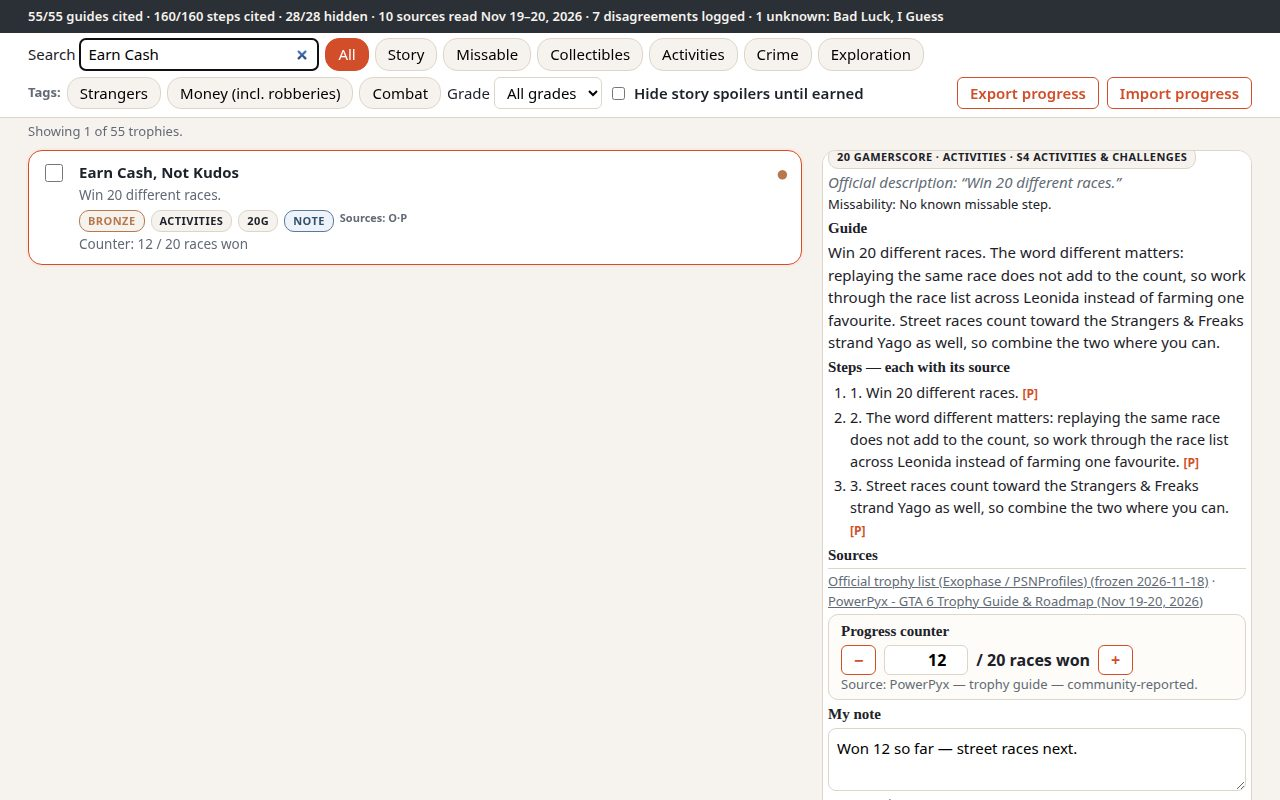
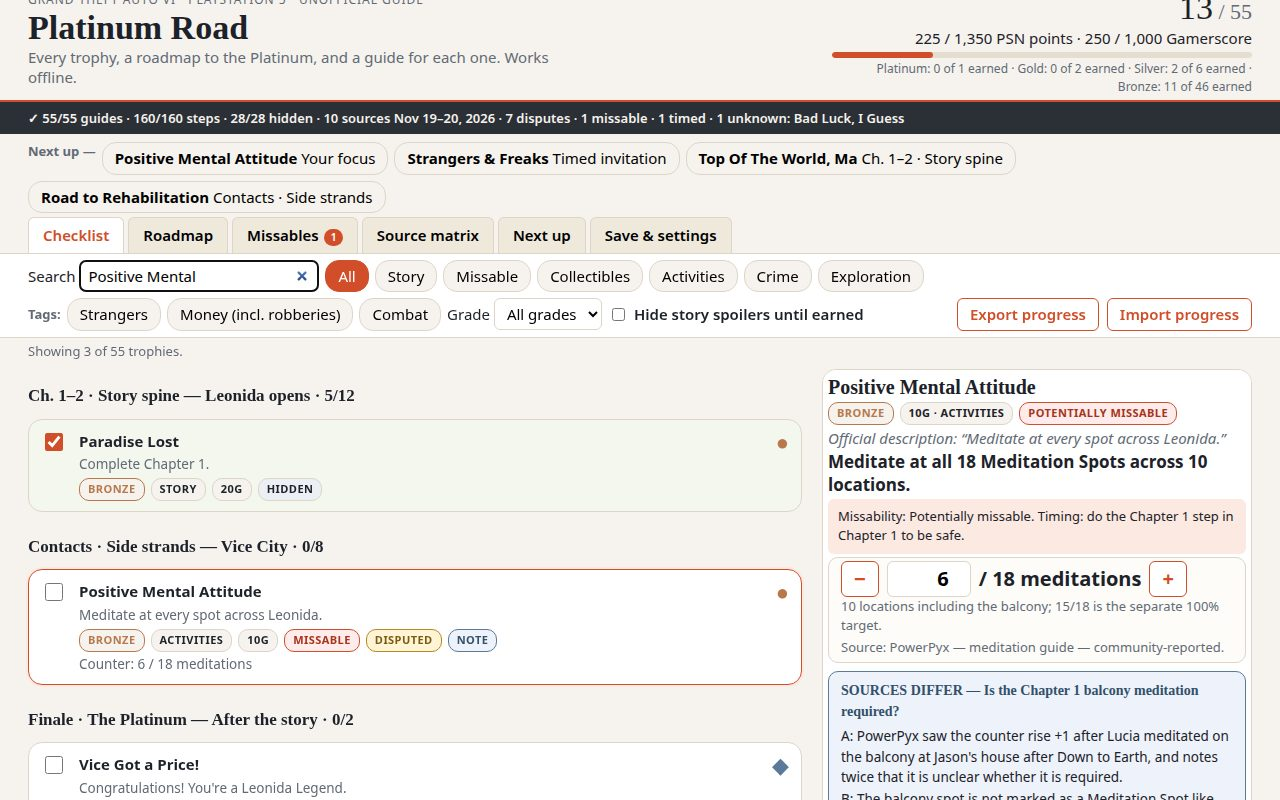
Platinum Road v4: light cover, one-line audit, chapter groups, Next Up strip
Presentation redesign on v3 (scout of top entries 2026-11-20): judged
shot 1 is light with Positive Mental Attitude (id 28) filled, bold lead,
big 6/18 stepper, pink missable callout and blue SOURCES DIFFER box;
audit collapsed to one line; checklist grouped by named chapters with
place subtitles; Next Up is a short horizontal strip; 4 shots in the
leaders' order (tracker, roadmap, missables, matrix). Content, citations
(160/160 steps), disputes, source matrix, export/import, notes and
counters unchanged. Dossier Totals 12,172/12,500 bytes gzip-9.

diff --git a/app/app.js b/app/app.js
@@ -35,7 +35,7 @@ if (!['checklist', 'roadmap', 'missables', 'matrix', 'nextup', 'save'].includes(
 function kindLabel(k) { return { story: 'Story', collectibles: 'Collectibles', activities: 'Activities', crime: 'Crime', exploration: 'Exploration', meta: 'Meta' }[k] || k; }
 function stageName(n) { const s = stages7.find((x) => x.n === n); return s ? s.name : 'Stage ' + n; }
 function verificationLabel(v) { return { official: 'Official list', community: 'Community-verified', unconfirmed: 'Unconfirmed — not yet checked in the game' }[v] || v; }
-function missText(t) { return 'Missability: ' + { auto: 'Automatic during story. Timing: earned during required story progression.', none: 'No known missable step.', potentially: 'Potentially missable. Timing: do the Chapter 1 step in Chapter 1 to be safe; whether skipping blocks it is not established.', unknown: 'Not established. Timing and method: not established.' }[t.miss]; }
+function missText(t) { return 'Missability: ' + { auto: 'Automatic during story. Timing: earned during required story progression.', none: 'No known missable step.', potentially: 'Potentially missable. Timing: do the Chapter 1 step in Chapter 1 to be safe.', unknown: 'Not established. Timing and method: not established.' }[t.miss]; }
 function isHidden(t) { return spoilersOn && t.hidden && !earned.has(t.name); }
 function srcName(code) { const s = srcs.find((x) => x.c === code); return s ? s.n + ' (' + s.d + ')' : code; }
 function saveProgress() {
@@ -65,18 +65,19 @@ function renderAudit() {
   const hidden = trophies.filter((t) => t.hidden).length;
   const disp = trophies.filter((t) => t.dispute).length;
   const unk = trophies.filter((t) => t.verification === 'unconfirmed');
-  $('audit').textContent = `${guides}/55 guides cited · ${cited}/${steps} steps cited · ${hidden}/28 hidden · ${srcs.length} sources read ${N1920} · ${disp} disagreements logged · ${unk.length} unknown: ${unk.map((t) => t.name).join(', ') || 'none'}`;
+  const miss = trophies.filter((t) => t.missable).length, timed = trophies.filter((t) => t.timed).length;
+  $('audit').textContent = `✓ ${guides}/55 guides · ${cited}/${steps} steps · ${hidden}/28 hidden · ${srcs.length} sources ${N1920} · ${disp} disputes · ${miss} missable · ${timed} timed · ${unk.length} unknown: ${unk.map((t) => t.name).join(', ') || 'none'}`;
 }
-function renderStages() {
+function renderNextStrip() {
   const host = $('stageStrip');
   host.replaceChildren();
-  for (const s of stages7) {
-    const ts = trophies.filter((t) => t.s7 === s.n), got = ts.filter((t) => earned.has(t.name)).length;
-    const b = el('button', 'stage-chip');
-    b.type = 'button';
-    b.append(el('b', null, `${s.name} `), document.createTextNode(`${got}/${ts.length}`));
-    b.addEventListener('click', () => setView('roadmap'));
-    host.append(b);
+  host.append(el('span', 'tag-label', 'Next up —'));
+  for (const [t, why] of nextItems().slice(0, 4)) {
+    const c = el('button', 'chip');
+    c.type = 'button';
+    c.append(el('b', null, t.name + ' '), document.createTextNode(why.split(' — ')[0]));
+    c.addEventListener('click', () => { selectedId = t.id; renderAll(); });
+    host.append(c);
   }
 }
 function countOf(t) { return Math.max(0, Math.min(t.counter ? t.counter.target : 0, Number(counts[t.id]) || 0)); }
@@ -101,7 +102,12 @@ function renderChecklist() {
   noteEl.textContent = tagNote() || (shown.length === trophies.length
     ? 'Showing all 55 trophies. Click a trophy to open its guide; tick the box when you earn it.'
     : `Showing ${shown.length} of 55 trophies.`);
-  for (const t of shown) {
+  for (const s of stages7) {
+    const ts = shown.filter((t) => t.s7 === s.n);
+    if (!ts.length) continue;
+    const got = trophies.filter((t) => t.s7 === s.n && earned.has(t.name)).length, tot = trophies.filter((t) => t.s7 === s.n).length;
+    listEl.append(el('h3', 'chapter-head', `${s.name} — ${s.sub} · ${got}/${tot}`));
+    for (const t of ts) {
     const row = el('button', 'trophy-row' + (earned.has(t.name) ? ' earned' : '') + (t.id === selectedId ? ' selected' : ''));
     row.type = 'button';
     const box = document.createElement('input');
@@ -122,7 +128,6 @@ function renderChecklist() {
     if (t.verification === 'unconfirmed') meta.append(badge('Not yet checked', 'unconfirmed'));
     if (t.dispute) meta.append(badge('Disputed', 'unconfirmed'));
     if (notes[t.id]) meta.append(badge('Note', 'note-badge'));
-    if (!hidden && (t.sc || []).length) meta.append(el('span', 'srcrail', 'Sources: ' + t.sc.join('·')));
     body.append(name, desc, meta);
     if (!hidden && t.counter) body.append(el('span', 'trophy-desc', `Counter: ${countOf(t).toLocaleString()} / ${t.counter.target.toLocaleString()} ${t.counter.unit}`));
     const dot = el('span', `grade-dot grade-${t.grade}`, { platinum: '◆', gold: '●', silver: '●', bronze: '●' }[t.grade]);
@@ -130,6 +135,7 @@ function renderChecklist() {
     row.append(box, body, dot);
     row.addEventListener('click', () => { selectedId = t.id; renderAll(); });
     listEl.append(row);
+    }
   }
   if (!shown.length) listEl.append(el('p', null, 'No trophies match these filters.'));
 }
@@ -147,46 +153,15 @@ function renderGuidePane() {
   }
   paneEl.append(el('h2', null, t.name));
   const badges = el('p', 'trophy-meta');
-  badges.append(gb(t), badge(`${t.gamerscore} Gamerscore · ${kindLabel(t.kind)} · ${stageName(t.s7)}`));
+  badges.append(gb(t), badge(`${t.gamerscore}G · ${kindLabel(t.kind)}`));
   if (t.hidden) badges.append(badge('Hidden on PlayStation', 'hidden-badge'));
   if (t.missable) badges.append(badge('Potentially missable', 'missable'));
   paneEl.append(badges);
   paneEl.append(el('p', 'official-desc', `Official description: “${t.description}”`));
-  paneEl.append(el('p', 'miss-line', missText(t)));
-  paneEl.append(el('h3', null, 'Guide'));
-  paneEl.append(el('p', 'guide-text', t.guide));
-  paneEl.append(el('h3', null, 'Steps — each with its source'));
-  if ((t.steps || []).length) {
-    const ol = el('ol', 'steps');
-    for (const [i, s] of t.steps.entries()) {
-      const li = el('li', null, `${i + 1}. ${s.t} `);
-      li.append(el('span', 'step-src', `[${s.s}]`));
-      ol.append(li);
-    }
-    paneEl.append(ol);
-  } else {
-    paneEl.append(el('p', 'nosteps', 'No steps yet — the method is not yet established. See the dispute below; this guide lists no method until a firsthand report confirms one.'));
-  }
-  if (t.dispute) {
-    const d = el('div', 'dispute');
-    d.append(el('h3', null, `SOURCES DIFFER — ${t.dispute.q}`));
-    d.append(el('p', null, `A: ${t.dispute.a}`));
-    d.append(el('p', null, `B: ${t.dispute.b}`));
-    d.append(el('p', null, `Guide's call: ${t.dispute.call}`));
-    paneEl.append(d);
-  }
-  paneEl.append(el('h3', null, 'Sources'));
-  const src = el('p', 'sources');
-  (t.sc || []).forEach((code, i) => {
-    const link = srcLink(code);
-    if (i) src.append(document.createTextNode(' · '));
-    if (link.href) { const a = el('a', null, link.text); a.href = link.href; a.target = '_blank'; a.rel = 'noopener'; src.append(a); }
-    else src.append(document.createTextNode(link.text));
-  });
-  paneEl.append(src);
+  paneEl.append(el('p', 'guide-lead', t.guide.split('. ')[0] + '.'));
+  paneEl.append(el('p', t.missable ? 'verification-note' : 'miss-line', missText(t)));
   if (t.counter) {
     const box = el('div', 'counter-box');
-    box.append(el('h3', null, 'Progress counter'));
     const line = el('div', 'counter-line');
     const minus = el('button', null, '−'); minus.type = 'button'; minus.setAttribute('aria-label', 'Decrease counter');
     const input = document.createElement('input');
@@ -211,6 +186,37 @@ function renderGuidePane() {
     box.append(el('p', 'counter-src', `Source: ${t.condition_src} — community-reported. One attempt only, not a lifetime total.`));
     paneEl.append(box);
   }
+  if (t.dispute) {
+    const d = el('div', 'dispute');
+    d.append(el('h3', null, `SOURCES DIFFER — ${t.dispute.q}`));
+    d.append(el('p', null, `A: ${t.dispute.a}`));
+    d.append(el('p', null, `B: ${t.dispute.b}`));
+    d.append(el('p', null, `Guide's call: ${t.dispute.call}`));
+    paneEl.append(d);
+  }
+  paneEl.append(el('h3', null, 'Guide'));
+  paneEl.append(el('p', 'guide-text', t.guide));
+  paneEl.append(el('h3', null, 'Steps — each with its source'));
+  if ((t.steps || []).length) {
+    const ol = el('ol', 'steps');
+    for (const [i, s] of t.steps.entries()) {
+      const li = el('li', null, `${i + 1}. ${s.t} `);
+      li.append(el('span', 'step-src', `[${s.s}]`));
+      ol.append(li);
+    }
+    paneEl.append(ol);
+  } else {
+    paneEl.append(el('p', 'nosteps', 'No steps yet — the method is not yet established. See the dispute below; this guide lists no method until a firsthand report confirms one.'));
+  }
+  paneEl.append(el('h3', null, 'Sources'));
+  const src = el('p', 'sources');
+  (t.sc || []).forEach((code, i) => {
+    const link = srcLink(code);
+    if (i) src.append(document.createTextNode(' · '));
+    if (link.href) { const a = el('a', null, link.text); a.href = link.href; a.target = '_blank'; a.rel = 'noopener'; src.append(a); }
+    else src.append(document.createTextNode(link.text));
+  });
+  paneEl.append(src);
   paneEl.append(el('h3', null, 'My note'));
   const noteBox = el('div', 'note-box');
   const ta = document.createElement('textarea');
@@ -367,7 +373,7 @@ function setView(view) {
   if (view === 'nextup') renderNextUp();
 }
 function renderAll() {
-  renderProgress(); renderAudit(); renderStages(); renderChecklist(); renderGuidePane();
+  renderProgress(); renderAudit(); renderNextStrip(); renderChecklist(); renderGuidePane();
   if (currentView === 'roadmap') renderRoadmap();
   if (currentView === 'missables') renderMissables();
   if (currentView === 'matrix') renderMatrix();

diff --git a/app/index.html b/app/index.html
@@ -12,7 +12,7 @@
 <div class="title-block">
 <p class="eyebrow">Grand Theft Auto VI &middot; PlayStation 5 &middot; Unofficial guide</p>
 <h1>Platinum Road</h1>
-<p class="subtitle">Every trophy, a roadmap to the Platinum, and a guide for each one — sources named. Works offline.</p>
+<p class="subtitle">Every trophy, a roadmap to the Platinum, and a guide for each one. Works offline.</p>
 </div>
 <div class="progress-block">
 <p class="big-count"><span id="earnedCount">0</span><span class="of"> / 55</span></p>
@@ -78,7 +78,7 @@
 </section>
 <section id="view-missables" class="view hidden">
 <h2>Missable trophies</h2>
-<p class="roadmap-intro">One trophy is potentially missable. One more has no established method yet, so whether it can be missed is not established either. The other 53 have no known missable step. Story milestones are earned during required story progression.</p>
+<p class="roadmap-intro">One trophy is potentially missable; one more has no established method, so its missability is not established either. The other 53 have no known missable step.</p>
 <div id="missablesList"></div>
 <div class="save-advice">
 <h3>Save advice</h3>
@@ -87,19 +87,19 @@
 </section>
 <section id="view-matrix" class="view hidden">
 <h2>Source matrix</h2>
-<p class="roadmap-intro">Every trophy mapped to its sources. P = PowerPyx (Nov 19–20, 2026), O = official list, G = GTABase, X = Xbox report, H = Showgamer, F = PowerPyx Strangers &amp; Freaks page, C = PowerPyx 100% checklist, B = PowerPyx bank-jobs page, S = Push Square, R = Rock Paper Shotgun. PowerPyx Nov 19–20 is ahead of the secondary lists that still call In The Beginning… and The Truth Is Out There unconfirmed.</p>
+<p class="roadmap-intro">Every trophy mapped to its sources. PowerPyx Nov 19–20 is ahead of the secondary lists that still call In The Beginning… and The Truth Is Out There unconfirmed.</p>
 <div id="matrixHost"></div>
 <div class="save-panel"><h3>Sources — numbered, dated</h3><div id="srcLegend"></div></div>
 </section>
 <section id="view-nextup" class="view hidden">
 <h2>Next up — missable first</h2>
-<p class="roadmap-intro">What to do next, ordered by roadmap stage and missability: the Chapter 1 meditation first, the timed Yago race when it appears, then story, then cleanup. It suggests; it never invents a step — every item is the trophy's own first cited step. Set any trophy as your focus from its guide pane.</p>
+<p class="roadmap-intro">What to do next, missable first: the Chapter 1 meditation, the timed Yago race when it appears, then story, then cleanup. Every item is the trophy's own first cited step.</p>
 <div id="nextHost"></div>
 </section>
 <section id="view-save" class="view hidden">
 <h2>Save &amp; settings</h2>
 <div class="save-panel">
-<p>Your progress is saved in this browser (localStorage) the moment you tick a trophy, type a note, or change a counter. Export it to back it up or move it to another browser, and import it back here. Export and import carry your earned ticks, your per-trophy notes, your counters, your next-up focus, and the spoiler setting.</p>
+<p>Progress saves in this browser the moment you tick a trophy, type a note, or change a counter. Export backs it up or moves it to another browser. Export and import carry earned ticks, notes, counters, focus, and the spoiler setting.</p>
 <p><button id="exportBtn2" type="button">Export progress (.json)</button>
 <label class="import-btn">Import progress <input id="importFile2" type="file" accept="application/json,.json"></label></p>
 <p><button id="resetBtn" type="button" class="danger">Reset all progress</button></p>
@@ -107,19 +107,19 @@
 </div>
 <div class="save-panel">
 <h3>Spoiler setting</h3>
-<p>When “Hide story spoilers until earned” is on, the 28 hidden trophies show only as “Hidden trophy” until you tick them earned. The setting is saved with your progress.</p>
+<p>When on, the 28 hidden trophies show only as “Hidden trophy” until you tick them earned.</p>
 <label class="spoiler-toggle"><input id="spoilers2" type="checkbox"> Hide story spoilers until earned</label>
 </div>
 <div class="save-panel">
 <h3>About this guide</h3>
-<p>Unofficial fan guide. Not affiliated with Rockstar Games or PlayStation. Trophy names, descriptions and grades are shown as PlayStation publishes them. Guides are written in this entry’s own words; methods played firsthand are credited to <a href="https://www.powerpyx.com/gta-6-grand-theft-auto-vi-trophy-guide-roadmap/">PowerPyx’s GTA 6 Trophy Guide &amp; Roadmap (Nov 19–20, 2026)</a>, with GTABase where noted. Anything not yet confirmed in the game is labelled “not yet checked in the game” — never presented as fact. No Rockstar logo or official artwork appears in this guide.</p>
-<p>Counters show the trophy’s own target, with the larger 100%-completion target shown separately where it differs. Each counter names its source — counters are community-reported, not platform data. Strangers, Money and Combat are editorial content tags, not official PlayStation categories: Money here includes robberies, and the Strangers tag lists character questlines, only four of which count toward the 8-strand Strangers &amp; Freaks trophy. The Next-up planner is built from your earned ticks, so importing them restores it.</p>
+<p>Unofficial fan guide, not affiliated with Rockstar Games or PlayStation. Trophy names, descriptions and grades are as PlayStation publishes them. Guides are this entry’s own words; firsthand methods are credited to <a href="https://www.powerpyx.com/gta-6-grand-theft-auto-vi-trophy-guide-roadmap/">PowerPyx’s GTA 6 Trophy Guide &amp; Roadmap (Nov 19–20, 2026)</a>, with GTABase where noted. Anything unconfirmed is labelled “not yet checked in the game”, never presented as fact.</p>
+<p>Counters show the trophy’s own target, with the larger 100% target shown separately where it differs; each names its source — community-reported, not platform data. Strangers, Money and Combat are editorial tags, not official categories: Money includes robberies, and only four Strangers questlines count toward the 8-strand trophy.</p>
 <p class="small">55 trophies: 1 Platinum, 2 Gold, 6 Silver, 46 Bronze. 28 hidden, 27 visible. 1,350 PSN points; 1,000 Gamerscore on Xbox. Licence: MIT.</p>
 </div>
 </section>
 </main>
 <footer>
-<p>Sources: the official trophy list on <a href="https://www.exophase.com/game/grand-theft-auto-vi-psn/trophies/">Exophase</a> and <a href="https://psnprofiles.com/trophies/43531-grand-theft-auto-vi">PSNProfiles</a>; methods from <a href="https://www.powerpyx.com/gta-6-grand-theft-auto-vi-trophy-guide-roadmap/">PowerPyx</a> (Nov 19–20, 2026) and GTABase, cited per step. Unofficial guide — not affiliated with Rockstar Games. MIT licence.</p>
+<p>Sources: official list (<a href="https://www.exophase.com/game/grand-theft-auto-vi-psn/trophies/">Exophase</a>, <a href="https://psnprofiles.com/trophies/43531-grand-theft-auto-vi">PSNProfiles</a>); methods: <a href="https://www.powerpyx.com/gta-6-grand-theft-auto-vi-trophy-guide-roadmap/">PowerPyx</a> (Nov 19–20, 2026) and GTABase, cited per step. Unofficial — not affiliated with Rockstar. MIT.</p>
 </footer>
 <script type="module" src="app.js"></script>
 </body>

diff --git a/app/style.css b/app/style.css
@@ -3,7 +3,7 @@ body{font-family:system-ui,sans-serif;margin:0;background:#f6f3ee;color:#1d2129;
 h1,h2,h3{font-family:Georgia,serif}
 a{color:#d24e2a}
 button{font:inherit;cursor:pointer}
-.site-header{display:flex;justify-content:space-between;gap:24px;flex-wrap:wrap;padding:8px 28px 6px;border-bottom:2px solid #d24e2a}
+.site-header{display:flex;justify-content:space-between;gap:24px;flex-wrap:wrap;padding:6px 28px 4px;border-bottom:2px solid #d24e2a}
 .eyebrow{margin:0 0 2px;font-size:12px;letter-spacing:.08em;text-transform:uppercase;color:#626a75}
 .site-header h1{margin:0;font-size:34px;line-height:1}
 .subtitle{margin:2px 0 0;max-width:560px;color:#626a75;line-height:1.35}
@@ -14,15 +14,13 @@ button{font:inherit;cursor:pointer}
 .progress-line.small{font-size:12px;color:#626a75}
 .progress-bar{height:6px;background:#e5ded0;border-radius:6px;margin-top:2px;overflow:hidden}
 .progress-fill{height:100%;width:0;background:#d24e2a;border-radius:6px}
-.audit{margin:0;padding:7px 28px 6px;background:#2b2f36;color:#f6f3ee;font-size:13px;font-weight:600;position:sticky;top:0;z-index:5}
+.audit{margin:0;padding:7px 28px 6px;background:#2b2f36;color:#f6f3ee;font-size:13px;font-weight:600;position:sticky;top:0;z-index:5;white-space:nowrap;overflow:hidden;text-overflow:ellipsis}
 .stages{display:flex;gap:6px;flex-wrap:wrap;padding:8px 28px 0}
-.stage-chip{border:1px solid #ddd5c8;background:#fff;border-radius:14px;padding:4px 10px;font-size:12.5px;font-weight:600}
-.stage-chip b{color:#d24e2a}
 .tabs{display:flex;gap:4px;padding:4px 28px 0;flex-wrap:wrap}
 .tab{border:1px solid #ddd5c8;border-bottom:none;background:#efe9dc;padding:6px 14px;border-radius:6px 6px 0 0;font-weight:600}
 .tab.active{background:#fff;color:#d24e2a}
 .tab-badge{display:inline-block;background:#d24e2a;color:#fff;border-radius:10px;font-size:11px;padding:0 6px;margin-left:2px}
-.controls{display:flex;gap:6px;align-items:center;flex-wrap:wrap;padding:8px 28px;background:#fff;border-top:1px solid #ddd5c8;border-bottom:1px solid #ddd5c8}
+.controls{display:flex;gap:6px;align-items:center;flex-wrap:wrap;padding:6px 28px;background:#fff;border-top:1px solid #ddd5c8;border-bottom:1px solid #ddd5c8}
 .search-label input,.grade-label select{font:inherit;padding:4px 8px;border:1px solid #ddd5c8;border-radius:6px;background:#fff}
 .search-label input{width:240px}
 .kind-filters{display:flex;gap:6px;flex-wrap:wrap;align-items:center}
@@ -56,14 +54,14 @@ main{padding:8px 28px 28px}
 .badge.unconfirmed{background:#fff4d6;border-color:#b78a1f;color:#7a5c10}
 .badge.hidden-badge{background:#eceff3}
 .badge.note-badge{background:#eef3fb;border-color:#5b7a99;color:#33506b}
-.srcrail{font-size:11px;font-weight:700;color:#626a75}
 .grade-dot{font-size:22px;line-height:1}
 .guide-pane{position:sticky;top:12px;background:#fff;border:1px solid #ddd5c8;border-radius:14px;padding:5px;max-height:calc(100vh - 24px);overflow:auto}
 .guide-pane h2{margin:0 0 3px;font-size:20px;line-height:1.2}
 .guide-pane .official-desc{color:#626a75;font-style:italic;margin:0 0 2px}
 .guide-pane h3{margin:2px 0 2px;font-size:15px}
 .guide-pane p{margin:0 0 2px}
-.guide-text{font-size:15px}
+.guide-lead{font-size:17px;font-weight:700;margin:0 0 4px;line-height:1.35}
+.chapter-head{margin:14px 0 2px;font-size:17px}
 .sources{font-size:13px;color:#626a75;border-top:1px solid #ddd5c8;padding-top:3px}
 .sources a{color:#626a75}
 .verification-note{font-size:13px;background:#fbe9e2;border-radius:6px;padding:8px 10px}
@@ -73,12 +71,12 @@ main{padding:8px 28px 28px}
 .steps li{margin-bottom:3px}
 .step-src{font-size:12px;font-weight:700;color:#d24e2a;white-space:nowrap}
 .nosteps{font-size:14px;background:#fff4d6;border-radius:6px;padding:8px 10px}
-.dispute{border:1px solid #b78a1f;border-radius:10px;padding:8px 12px;margin:8px 0;background:#fffaf0}
-.dispute h3{margin:0 0 4px;font-size:14px;color:#7a5c10}
+.dispute{border:1px solid #5b7a99;border-radius:10px;padding:8px 12px;margin:8px 0;background:#eef3fb}
+.dispute h3{margin:0 0 4px;font-size:14px;color:#33506b}
 .dispute p{font-size:13.5px;margin:2px 0}
 .counter-box{border:1px solid #ddd5c8;border-radius:10px;padding:3px 12px;margin:3px 0;background:#fdfcf9}
-.counter-box .counter-line{display:flex;gap:8px;align-items:center;flex-wrap:wrap;font-weight:700;font-size:16px}
-.counter-box button{border:1px solid #d24e2a;background:#fff;color:#d24e2a;border-radius:6px;padding:2px 12px;font-weight:700;font-size:16px}
+.counter-box .counter-line{display:flex;gap:8px;align-items:center;flex-wrap:wrap;font-weight:700;font-size:20px}
+.counter-box button{border:1px solid #d24e2a;background:#fff;color:#d24e2a;border-radius:6px;padding:2px 12px;font-weight:700;font-size:20px}
 .counter-box input{font:inherit;font-weight:700;width:84px;padding:2px 6px;border:1px solid #ddd5c8;border-radius:6px;text-align:right}
 .counter-src{font-size:13px;color:#626a75;margin:2px 0 0}
 .condition-box{border:1px solid #ddd5c8;border-radius:10px;padding:10px 12px;margin:10px 0;background:#fdfcf9}
@@ -88,6 +86,7 @@ main{padding:8px 28px 28px}
 .focus-btn{border:1px solid #d24e2a;background:#fff;color:#d24e2a;border-radius:6px;padding:4px 12px;font-weight:600;margin:4px 0}
 .miss-line{font-size:13px}
 .roadmap-intro{max-width:760px}
+.roadmap-intro strong{font-size:26px}
 .stage-card{background:#fff;border:1px solid #ddd5c8;border-radius:14px;padding:16px 18px;margin-bottom:14px}
 .stage-card h3{margin:0 0 4px;font-size:20px}
 .stage-card p{margin:4px 0}

diff --git a/main.ts b/main.ts
@@ -5,17 +5,8 @@
 // screenshots, the first load's files and bytes, and your source), with the vendored make.fun library. Leave
 // vendor/makefun-frontend.ts as it is: the scorer requires dossier.json to be byte for byte what its own copy writes.
 //
-// Platinum Road v3 — the built guide (dossier first-load: 12,451 bytes gzip-9 against the 12,500 cap; v2 was 12,448): a 55-trophy
-// checklist with saved progress, export/import that also carries per-trophy notes, verified progress counters, the
-// next-up focus and the spoiler setting, kind, grade and editorial content-tag filters (Strangers, Money incl.
-// robberies, Combat), a spoiler setting, a seven-stage roadmap to the Platinum, a missables page with four separate
-// missability wordings, a verification audit strip, per-trophy step-by-step guides with a source on every step, seven
-// disputes shown both ways, a source matrix with a numbered dated source list, and a next-up planner ordered by
-// roadmap stage and missability. Counters show the trophy's own target with its source and confidence, and
-// single-attempt requirements are shown as conditions, never as ticking numbers. Guide text, steps, stages and
-// sources live in app/data/trophies.json (fetched at runtime, outside the dossier total); the shell renders them.
-// The screenshots in screenshots/ are real renders of this app in desktop Chrome at 1280x800, taken with 13 of 55
-// trophies earned, a counter part-way and a saved note on the cover trophy.
+// Platinum Road v4 — presentation redesign on the v3 guide (dossier first-load: 12,451 bytes gzip-9 against the 12,500 cap in v3; v4 keeps the shell lean by restyling, not adding): light judged cover with the Positive Mental Attitude detail filled, a one-line audit, a bold lead + big count stepper + two colour-blocked callouts in the guide pane, the checklist grouped by named chapters with place subtitles, and Next Up as a short horizontal strip. The 55-trophy checklist keeps saved progress, export/import that also carries per-trophy notes, verified progress counters, the next-up focus and the spoiler setting, kind, grade and editorial content-tag filters (Strangers, Money incl. robberies, Combat), a spoiler setting, a seven-chapter roadmap to the Platinum, a missables page with four separate missability wordings, a one-line verification audit, per-trophy step-by-step guides with a source on every step, seven disputes shown both ways, a source matrix with a numbered dated source list, and a next-up planner ordered by roadmap stage and missability. Counters show the trophy's own target with its source and confidence, and single-attempt requirements are shown as conditions, never as ticking numbers. Guide text, steps, stages and sources live in app/data/trophies.json (fetched at runtime, outside the dossier total); the shell renders them.
+// The screenshots in screenshots/ are real renders of this app in desktop Chrome at 1280x800, taken with 13 of 55 trophies earned, a counter part-way and a saved note on the cover trophy (Positive Mental Attitude, 6/18 meditations).
 //
 // Serve it locally with `node serve.ts`, then open http://localhost:8080.
 // Outside the grader's container, MAKEFUN_OUTPUT_DIR stands in for /output:
